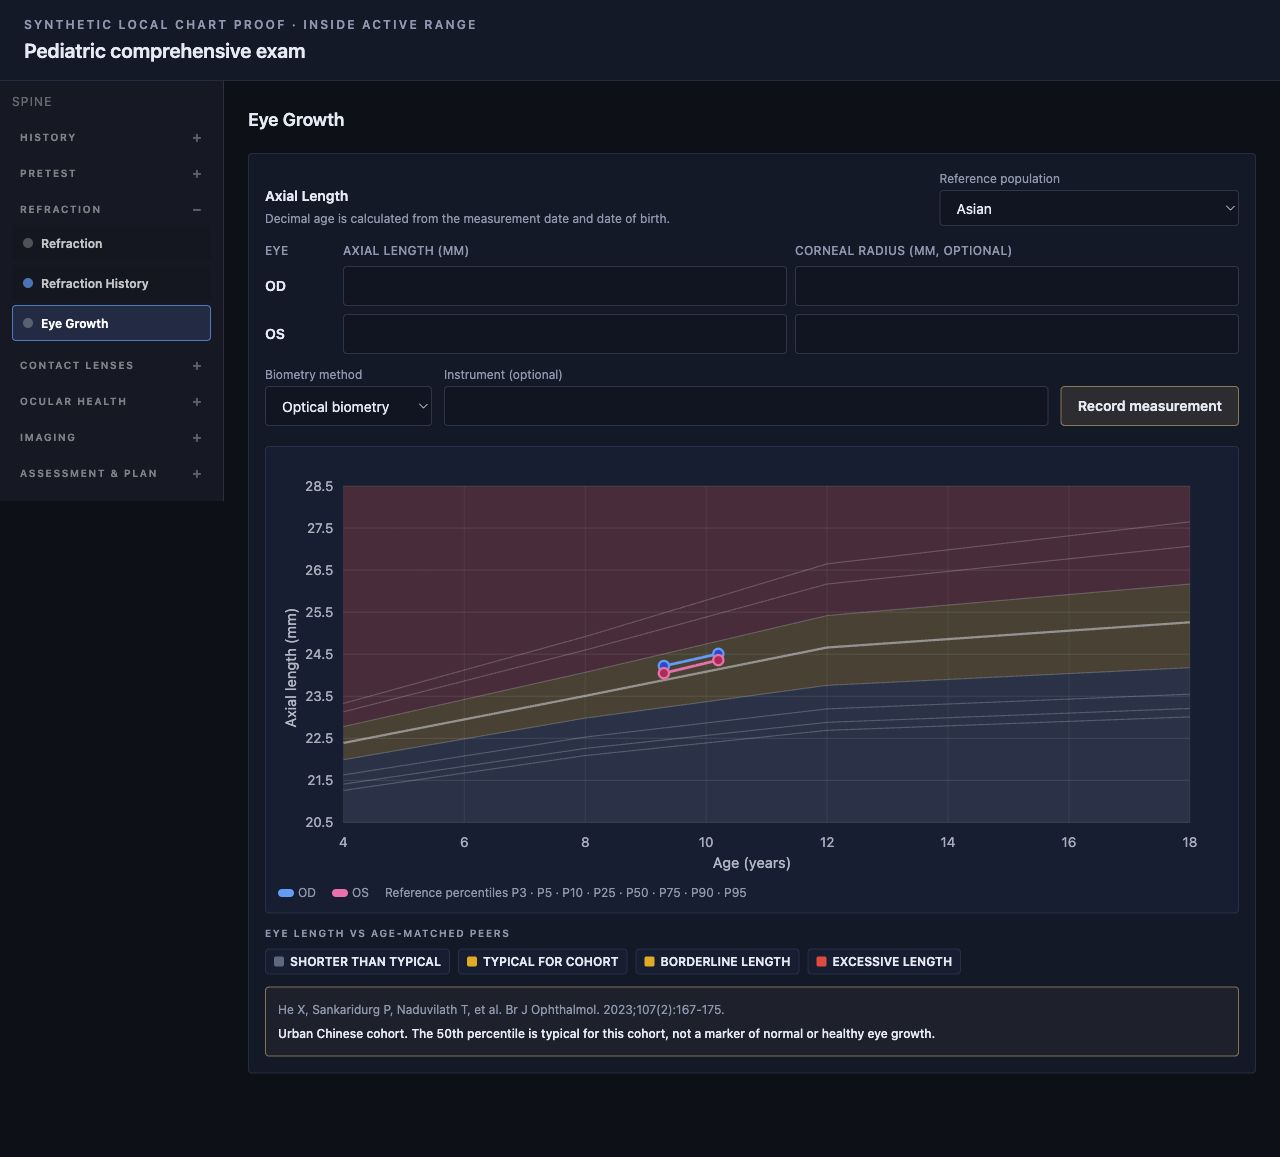
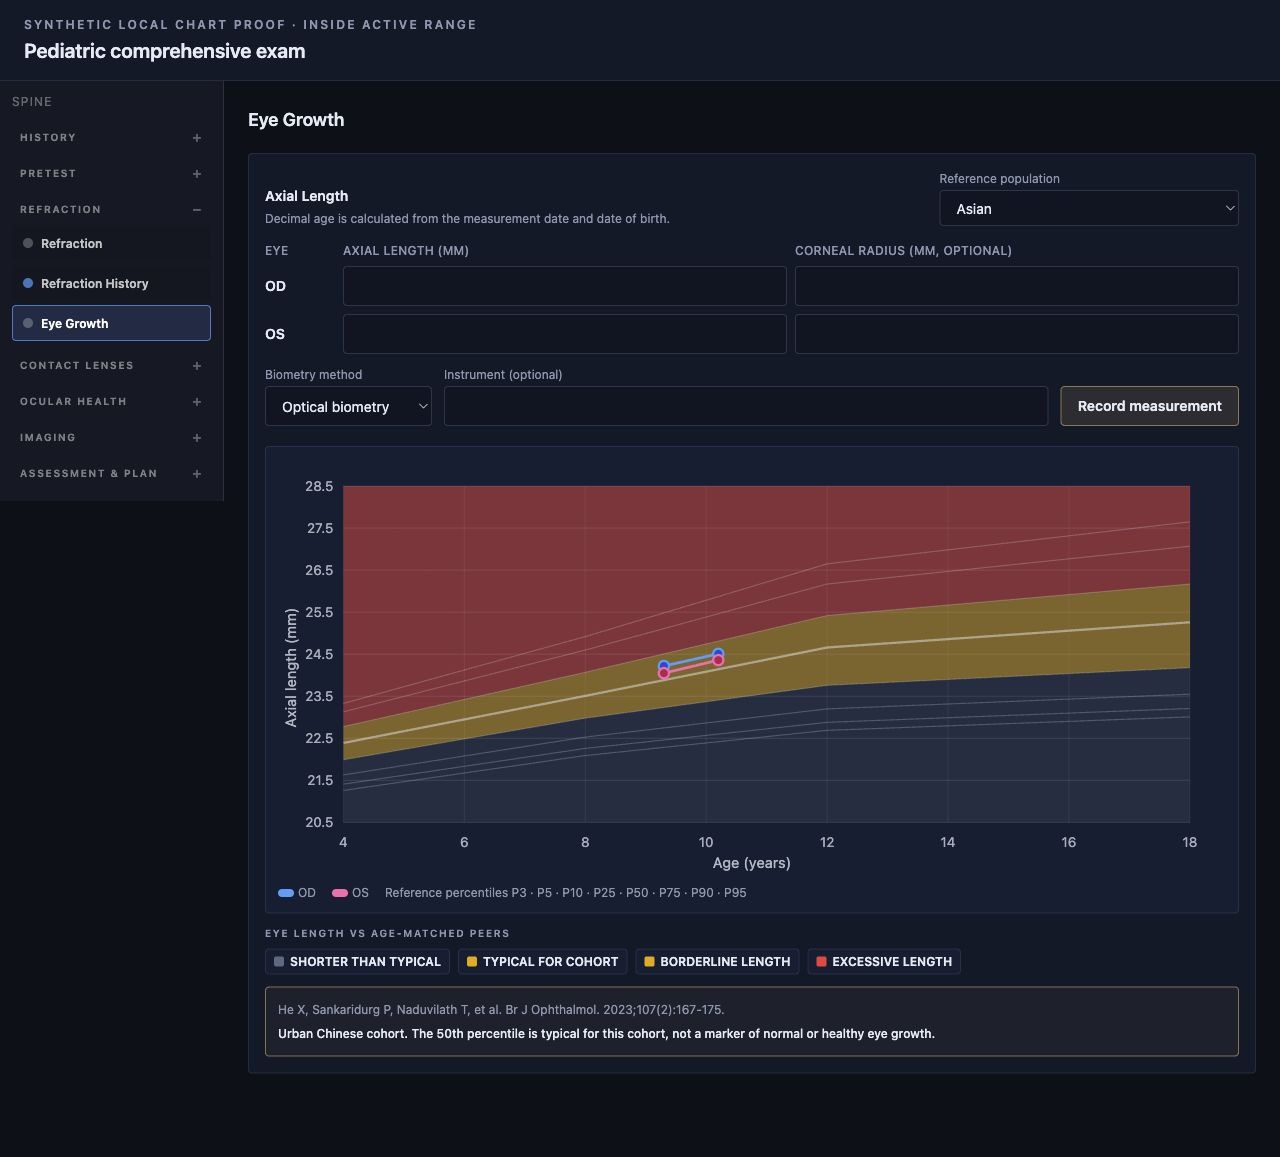
Increase Eye Growth zone contrast

Changed region(s): [[0.25, 0.4045, 0.9375, 0.6534]]

diff --git a/ui/src/components/charting/AxialGrowthChart.tsx b/ui/src/components/charting/AxialGrowthChart.tsx
@@ -78,7 +78,7 @@ export function AxialGrowthChart({
               key={zone.id}
               points={zone.points}
               fill={zone.color}
-              fillOpacity="0.22"
+              fillOpacity={zone.opacity}
               data-centile-zone={zone.id}
             >
               <title>{zone.label}</title>
@@ -280,24 +280,28 @@ function centileZones(
       id: "neutral",
       label: "SHORTER THAN TYPICAL",
       color: "#64748b",
+      opacity: 0.14,
       points: [`${x(firstAge)},${y(minValue)}`, ...curve(p25), `${x(lastAge)},${y(minValue)}`].join(" "),
     },
     {
       id: "typical",
       label: dataset.medianRepresentsHealthy ? "TYPICAL LENGTH" : "TYPICAL FOR COHORT",
       color: dataset.medianRepresentsHealthy ? "#22c55e" : "#eab308",
+      opacity: 0.48,
       points: band(p25, p50),
     },
     {
       id: "borderline",
       label: "BORDERLINE LENGTH",
       color: "#eab308",
+      opacity: 0.48,
       points: band(p50, p75),
     },
     {
       id: "excessive",
       label: "EXCESSIVE LENGTH",
       color: "#ef4444",
+      opacity: 0.48,
       points: [...curve(p75), `${x(lastAge)},${y(maxValue)}`, `${x(firstAge)},${y(maxValue)}`].join(" "),
     },
   ];
